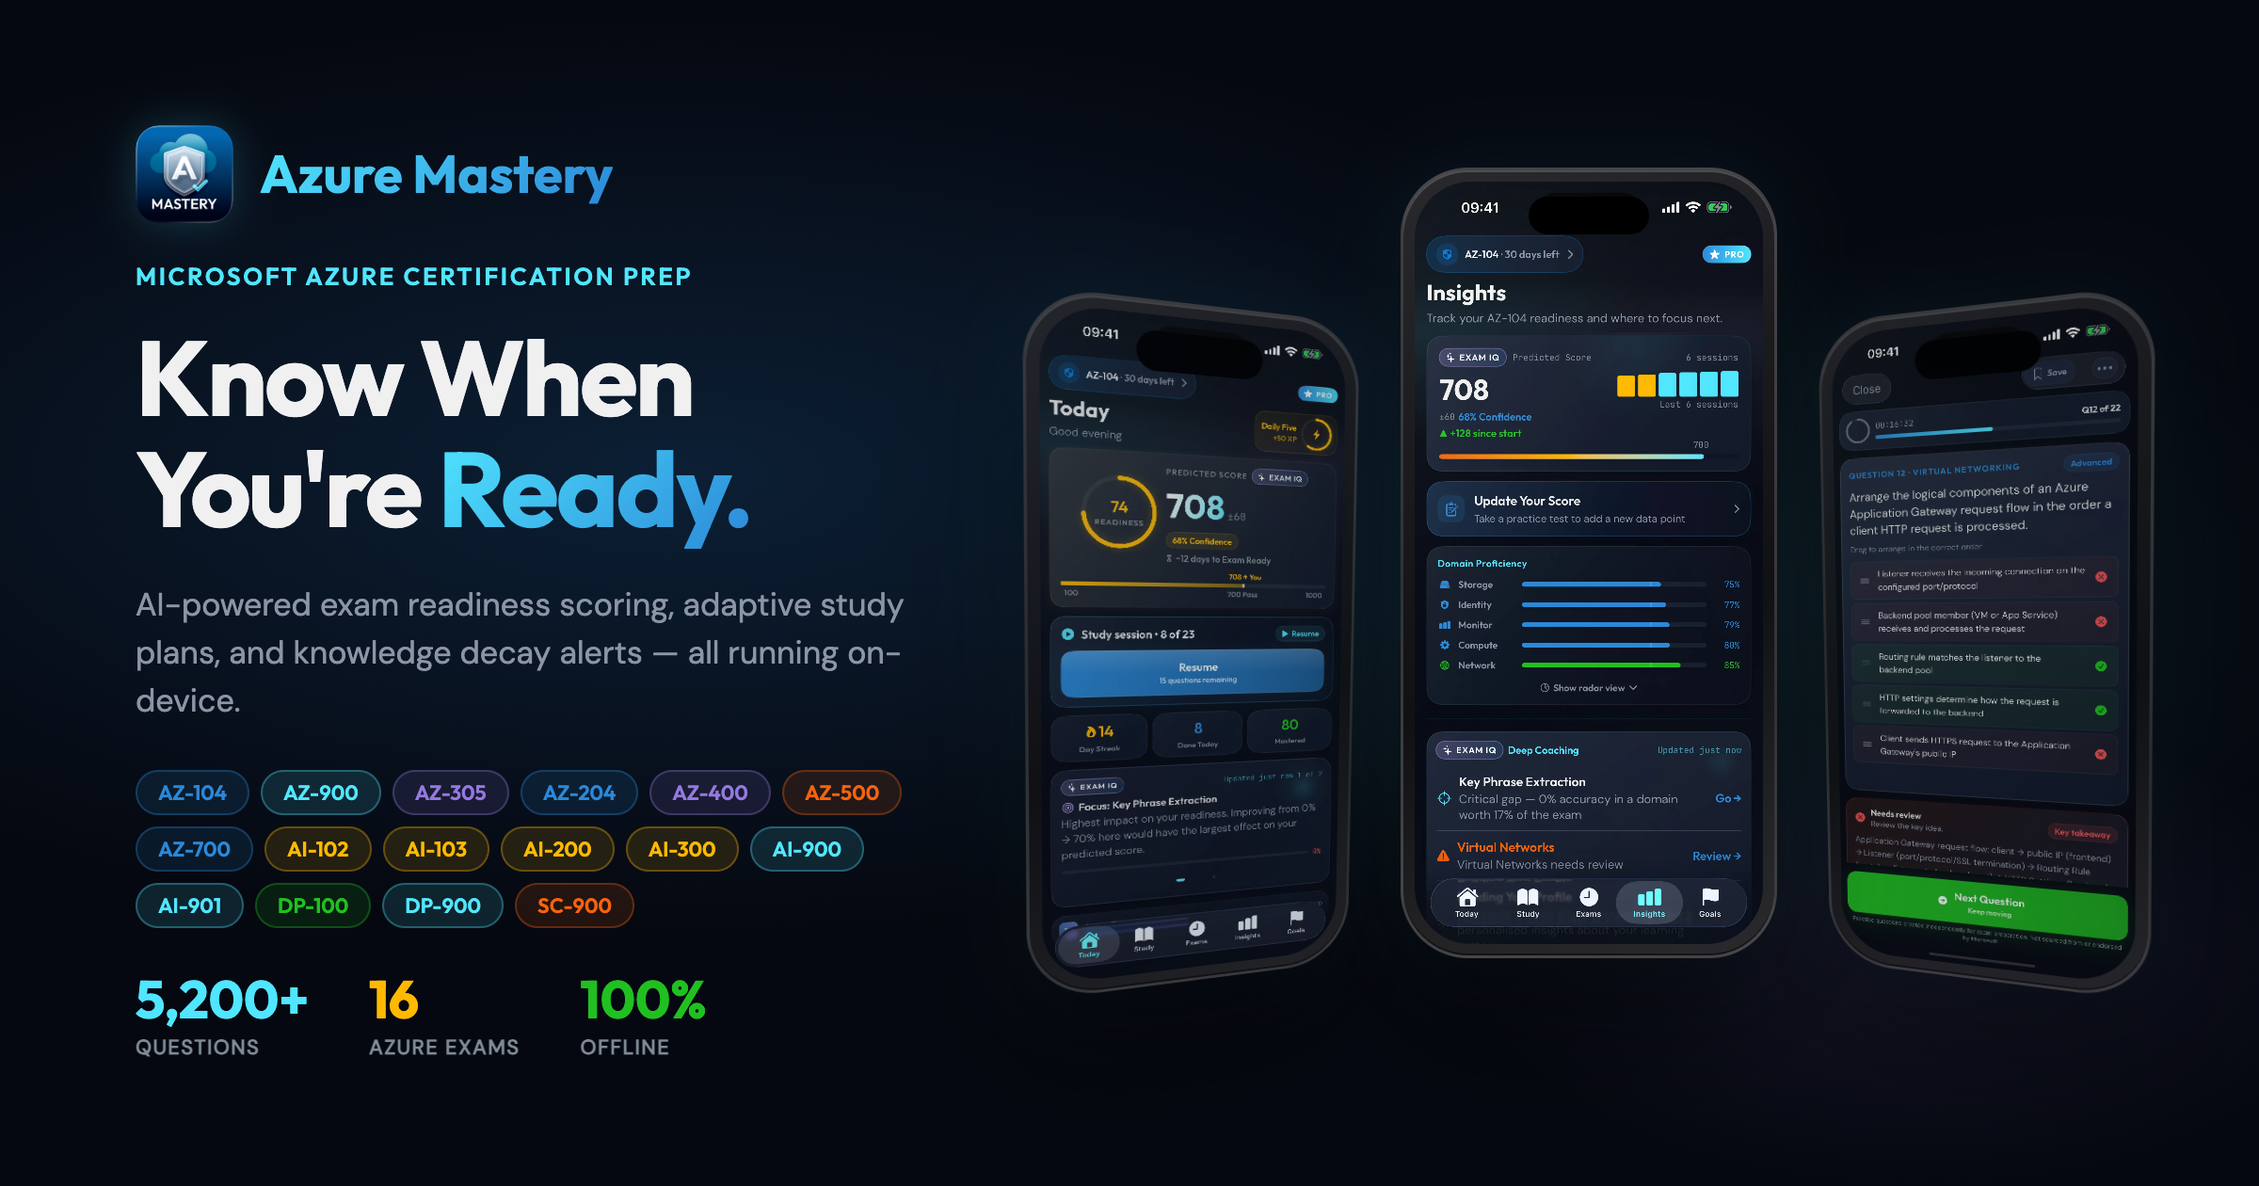
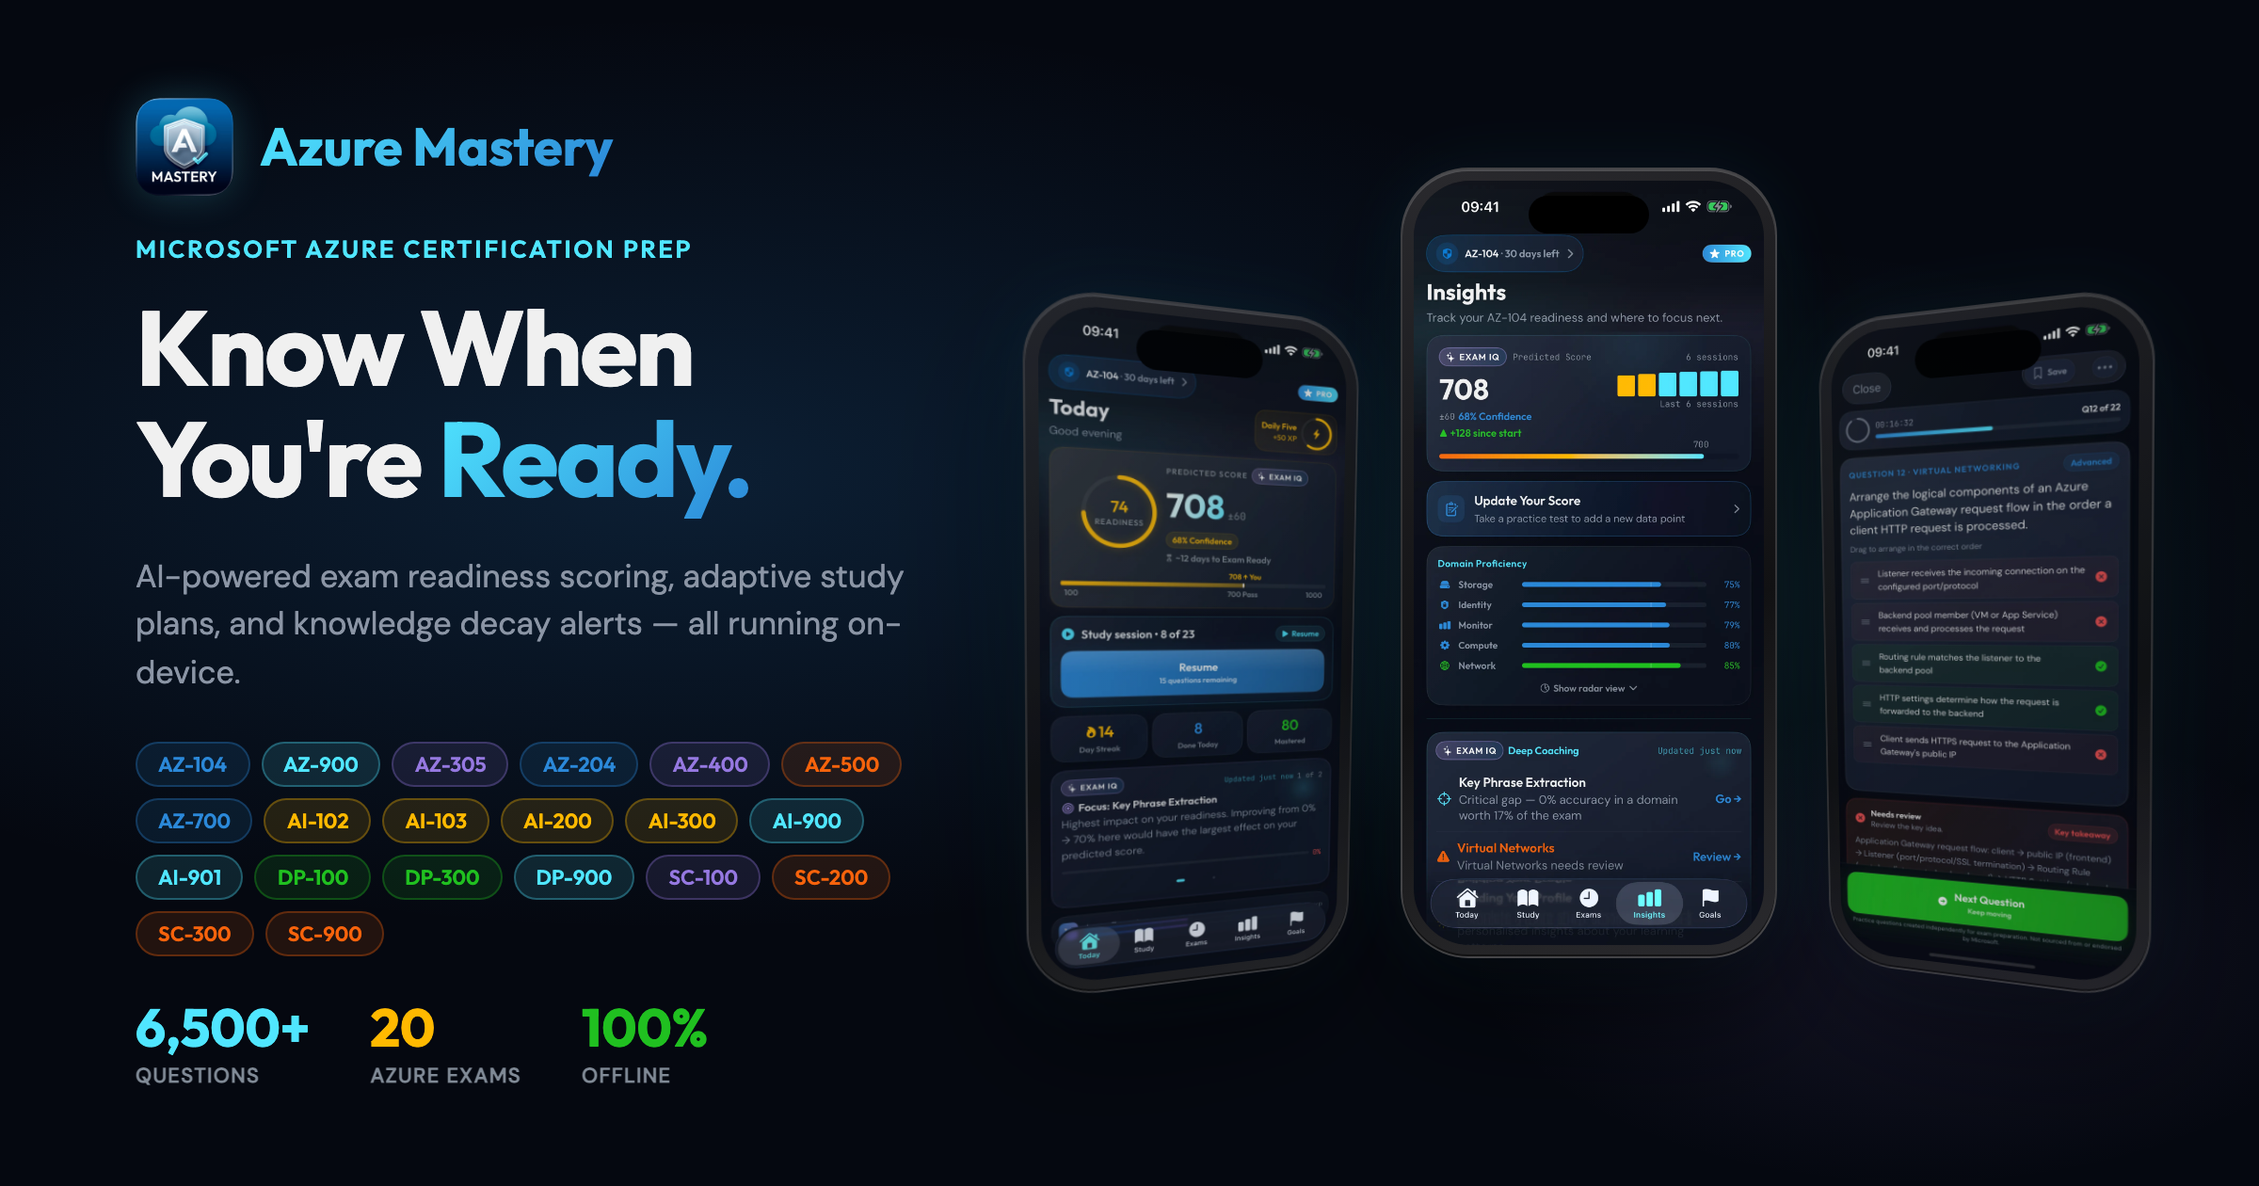
update for v1.4.4
update for v1.4.4

diff --git a/apps/AzureMastery/index.html b/apps/AzureMastery/index.html
@@ -12,9 +12,9 @@
     gtag('config', 'G-YTN7LFS04Y');
   </script>
   <meta name="viewport" content="width=device-width, initial-scale=1.0">
-  <title>Azure Mastery — AI-Powered Azure Certification Exam Prep | 16 Exams, 5,200+ Questions</title>
-  <meta name="description" content="Pass your Azure certification with confidence. Azure Mastery uses on-device AI to predict your exam score and build adaptive study plans. 5,200+ questions across 16 exams: AZ-104, AZ-900, AZ-305, AZ-204, AZ-400, AZ-500, AZ-700, AI-102, AI-103, AI-200, AI-300, AI-900, AI-901, DP-100, DP-900, SC-900.">
-  <meta name="keywords" content="Azure certification, AZ-104 exam prep, AZ-900 study guide, AZ-305 practice questions, AZ-204 exam prep, AZ-400 practice test, AZ-500 study guide, AZ-700 practice questions, AI-102 exam prep, AI-103 exam prep, AI-200 exam prep, AI-300 exam prep, AI-900 study guide, AI-901 study guide, DP-100 practice exam, DP-900 exam prep, SC-900 study guide, Microsoft Azure exam, Azure Administrator, Azure Fundamentals, Azure Solutions Architect, Azure Developer Associate, Azure DevOps Engineer, Azure Security Engineer, Azure Network Engineer, Azure AI Engineer, Azure AI App Agent Developer, Azure AI Cloud Developer, ML Operations Engineer, Azure AI Fundamentals, Azure Data Scientist, Azure Data Fundamentals, Security Compliance Identity Fundamentals, exam preparation app, iOS study app, Exam IQ, AI exam prep, Microsoft certification, Azure practice test, Azure exam simulator, cloud certification prep, Azure study app, knowledge decay, spaced repetition, adaptive learning, offline exam prep">
+  <title>Azure Mastery — AI-Powered Azure Certification Exam Prep | 20 Exams, 6,500+ Questions</title>
+  <meta name="description" content="Pass your Azure certification with confidence. Azure Mastery uses on-device AI to predict your exam score and build adaptive study plans. 6,500+ questions across 20 exams: AZ-104, AZ-900, AZ-305, AZ-204, AZ-400, AZ-500, AZ-700, AI-102, AI-103, AI-200, AI-300, AI-900, AI-901, DP-100, DP-300, DP-900, SC-100, SC-200, SC-300, SC-900.">
+  <meta name="keywords" content="Azure certification, AZ-104 exam prep, AZ-900 study guide, AZ-305 practice questions, AZ-204 exam prep, AZ-400 practice test, AZ-500 study guide, AZ-700 practice questions, AI-102 exam prep, AI-103 exam prep, AI-200 exam prep, AI-300 exam prep, AI-900 study guide, AI-901 study guide, DP-100 practice exam, DP-300 exam prep, DP-900 exam prep, SC-100 practice test, SC-200 practice test, SC-300 exam prep, SC-900 study guide, Microsoft Azure exam, Azure Administrator, Azure Database Administrator, Azure Fundamentals, Azure Solutions Architect, Azure Developer Associate, Azure DevOps Engineer, Azure Security Engineer, Azure Network Engineer, Azure AI Engineer, Azure AI App Agent Developer, Azure AI Cloud Developer, ML Operations Engineer, Azure AI Fundamentals, Azure Data Scientist, Azure Data Fundamentals, Cybersecurity Architect, Security Operations Analyst, Identity Access Administrator, Security Compliance Identity Fundamentals, exam preparation app, iOS study app, Exam IQ, AI exam prep, Microsoft certification, Azure practice test, Azure exam simulator, cloud certification prep, Azure study app, knowledge decay, spaced repetition, adaptive learning, offline exam prep">
   <meta name="robots" content="index, follow, max-image-preview:large, max-snippet:-1">
   <meta name="author" content="Moonbeam Alpha Ltd">
   <meta name="application-name" content="Azure Mastery">
@@ -34,18 +34,18 @@
   <meta property="og:type" content="website">
   <meta property="og:site_name" content="Azure Mastery">
   <meta property="og:title" content="Azure Mastery — Know When You're Ready to Pass">
-  <meta property="og:description" content="AI-powered Azure certification exam prep. 5,200+ questions across 16 exams. ML score prediction, adaptive study plans, knowledge decay alerts. AZ-104, AZ-900, AZ-305, AZ-204, AZ-400, AZ-500, AZ-700, AI-102, AI-103, AI-200, AI-300, AI-900, AI-901, DP-100, DP-900, SC-900. 100% offline.">
+  <meta property="og:description" content="AI-powered Azure certification exam prep. 6,500+ questions across 20 exams. ML score prediction, adaptive study plans, knowledge decay alerts. AZ-104, AZ-900, AZ-305, AZ-204, AZ-400, AZ-500, AZ-700, AI-102, AI-103, AI-200, AI-300, AI-900, AI-901, DP-100, DP-300, DP-900, SC-100, SC-200, SC-300, SC-900. 100% offline.">
   <meta property="og:image" content="https://azuremastery.app/apps/AzureMastery/images/og-image.png">
   <meta property="og:image:width" content="1200">
   <meta property="og:image:height" content="630">
   <meta property="og:image:type" content="image/png">
-  <meta property="og:image:alt" content="Azure Mastery — AI-powered Azure certification exam prep app with 5,200+ questions across 16 Microsoft Azure exams including AZ-104, AZ-900, AZ-305, AZ-204, AZ-400, AZ-500, AZ-700, AI-102, AI-103, AI-200, AI-300, AI-900, AI-901, DP-100, DP-900, and SC-900">
+  <meta property="og:image:alt" content="Azure Mastery — AI-powered Azure certification exam prep app with 6,500+ questions across 20 Microsoft Azure exams including AZ-104, AZ-900, AZ-305, AZ-204, AZ-400, AZ-500, AZ-700, AI-102, AI-103, AI-200, AI-300, AI-900, AI-901, DP-100, DP-300, DP-900, SC-100, SC-200, SC-300, and SC-900">
   <meta property="og:url" content="https://azuremastery.app/apps/AzureMastery/">
 
   <!-- Twitter Card -->
   <meta name="twitter:card" content="summary_large_image">
-  <meta name="twitter:title" content="Azure Mastery — AI-Powered Azure Certification Exam Prep | 16 Exams">
-  <meta name="twitter:description" content="On-device AI predicts your exam score, builds adaptive study plans, and catches knowledge decay before exam day. 5,200+ questions across 16 Azure exams. 100% offline.">
+  <meta name="twitter:title" content="Azure Mastery — AI-Powered Azure Certification Exam Prep | 20 Exams">
+  <meta name="twitter:description" content="On-device AI predicts your exam score, builds adaptive study plans, and catches knowledge decay before exam day. 6,500+ questions across 20 Azure exams. 100% offline.">
   <meta name="twitter:image" content="https://azuremastery.app/apps/AzureMastery/images/og-image.png">
 
   <!-- Structured Data -->
@@ -59,7 +59,7 @@
     "operatingSystem": "iOS",
     "applicationCategory": "EducationApplication",
     "applicationSubCategory": "Exam Preparation",
-    "description": "AI-powered Azure certification exam prep with adaptive study plans, ML score prediction, and real exam simulation. 5,200+ questions across 16 exams: AZ-104, AZ-900, AZ-305, AZ-204, AZ-400, AZ-500, AZ-700, AI-102, AI-103, AI-200, AI-300, AI-900, AI-901, DP-100, DP-900, SC-900.",
+    "description": "AI-powered Azure certification exam prep with adaptive study plans, ML score prediction, and real exam simulation. 6,500+ questions across 20 exams: AZ-104, AZ-900, AZ-305, AZ-204, AZ-400, AZ-500, AZ-700, AI-102, AI-103, AI-200, AI-300, AI-900, AI-901, DP-100, DP-300, DP-900, SC-100, SC-200, SC-300, SC-900.",
     "image": "https://azuremastery.app/apps/AzureMastery/images/azure-mastery.png",
     "screenshot": [
       "https://azuremastery.app/apps/AzureMastery/images/cap-exam-iq.webp",
@@ -77,14 +77,14 @@
       "name": "Moonbeam Alpha Ltd",
       "url": "https://azuremastery.app"
     },
-    "keywords": "Azure certification, AZ-104, AZ-900, AZ-305, AZ-204, AZ-400, AZ-500, AZ-700, AI-102, AI-103, AI-200, AI-300, AI-900, AI-901, DP-100, DP-900, SC-900, Microsoft Azure, exam prep, practice questions, Azure Administrator, Azure Fundamentals, Azure Solutions Architect, Azure Developer, Azure DevOps Engineer, Azure Security Engineer, Azure Network Engineer, Azure AI Engineer, Azure AI App Agent Developer, Azure AI Cloud Developer, ML Operations Engineer, Azure Data Scientist, Azure Data Fundamentals, Azure AI Fundamentals, Security Compliance Identity Fundamentals",
+    "keywords": "Azure certification, AZ-104, AZ-900, AZ-305, AZ-204, AZ-400, AZ-500, AZ-700, AI-102, AI-103, AI-200, AI-300, AI-900, AI-901, DP-100, DP-300, DP-900, SC-100, SC-200, SC-300, SC-900, Microsoft Azure, exam prep, practice questions, Azure Administrator, Azure Database Administrator, Azure Fundamentals, Azure Solutions Architect, Azure Developer, Azure DevOps Engineer, Azure Security Engineer, Azure Network Engineer, Azure AI Engineer, Azure AI App Agent Developer, Azure AI Cloud Developer, ML Operations Engineer, Azure Data Scientist, Azure Data Fundamentals, Azure AI Fundamentals, Cybersecurity Architect, Security Operations Analyst, Identity Access Administrator, Security Compliance Identity Fundamentals",
     "featureList": [
-      "5,200+ practice questions across 16 Azure exams",
+      "6,500+ practice questions across 20 Azure exams",
       "AI-powered Exam IQ score prediction",
       "Adaptive study plans",
       "Knowledge decay tracking",
       "Real exam simulation mode",
-      "15 certification paths",
+      "17 certification paths",
       "100% offline — no tracking"
     ],
     "aggregateRating": {
@@ -1351,7 +1351,11 @@
           <span class="hero-exam-tag hero-exam-tag--cyan">AI-900</span>
           <span class="hero-exam-tag hero-exam-tag--cyan">AI-901</span>
           <span class="hero-exam-tag hero-exam-tag--green">DP-100</span>
+          <span class="hero-exam-tag hero-exam-tag--green">DP-300</span>
           <span class="hero-exam-tag hero-exam-tag--cyan">DP-900</span>
+          <span class="hero-exam-tag hero-exam-tag--purple">SC-100</span>
+          <span class="hero-exam-tag hero-exam-tag--orange">SC-200</span>
+          <span class="hero-exam-tag hero-exam-tag--orange">SC-300</span>
           <span class="hero-exam-tag hero-exam-tag--orange">SC-900</span>
         </div>
         <div class="hero-ctas">
@@ -1392,12 +1396,12 @@
   <section class="section-metrics" aria-label="App statistics">
     <div class="metrics-inner">
       <div class="metric-item fade-up">
-        <span class="metric-number display-medium" style="color:var(--azure-cyan);">5200+</span>
+        <span class="metric-number display-medium" style="color:var(--azure-cyan);">6500+</span>
         <span class="metric-label">Questions</span>
       </div>
       <div class="metric-divider" aria-hidden="true"></div>
       <div class="metric-item fade-up">
-        <span class="metric-number display-medium" style="color:var(--xp-gold);">16</span>
+        <span class="metric-number display-medium" style="color:var(--xp-gold);">20</span>
         <span class="metric-label">Azure Exams</span>
       </div>
       <div class="metric-divider" aria-hidden="true"></div>
@@ -1455,9 +1459,9 @@
           <div class="feature-icon feature-icon--blue">
             <svg width="20" height="20" viewBox="0 0 24 24" fill="none" stroke="currentColor" stroke-width="2"><rect x="2" y="3" width="20" height="18" rx="3"/><path d="M8 7h8M8 12h8M8 17h4"/></svg>
           </div>
-          <h3 class="heading-medium" style="margin:16px 0 8px;">16 Azure Exams</h3>
+          <h3 class="heading-medium" style="margin:16px 0 8px;">20 Azure Exams</h3>
           <p class="body-medium" style="color:var(--text-secondary);">
-            From Fundamentals to Expert — AZ-104, AZ-900, AZ-305, AZ-204, AZ-400, AZ-500, AZ-700, AI-102, AI-103, AI-200, AI-300, AI-900, AI-901, DP-100, DP-900, and SC-900.
+            From Fundamentals to Expert — AZ-104, AZ-900, AZ-305, AZ-204, AZ-400, AZ-500, AZ-700, AI-102, AI-103, AI-200, AI-300, AI-900, AI-901, DP-100, DP-300, DP-900, SC-100, SC-200, SC-300, and SC-900.
           </p>
         </article>
 
@@ -1465,7 +1469,7 @@
           <div class="feature-icon feature-icon--gold">
             <svg width="20" height="20" viewBox="0 0 24 24" fill="none" stroke="currentColor" stroke-width="2"><circle cx="12" cy="12" r="10"/><path d="M9.09 9a3 3 0 015.83 1c0 2-3 3-3 3M12 17h.01"/></svg>
           </div>
-          <h3 class="heading-medium" style="margin:16px 0 8px;">5,200+ Questions</h3>
+          <h3 class="heading-medium" style="margin:16px 0 8px;">6,500+ Questions</h3>
           <p class="body-medium" style="color:var(--text-secondary);">
             Curated question bank with 9 question types, case studies, and detailed explanations for every answer.
           </p>
@@ -1556,7 +1560,7 @@
             <svg width="24" height="24" viewBox="0 0 24 24" fill="none" stroke="currentColor" stroke-width="2"><circle cx="12" cy="12" r="10"/><path d="M9 12l2 2 4-4"/></svg>
           </div>
           <h3>Answer questions</h3>
-          <p>Study from 5,200+ questions across 16 Azure certification exams. Each response feeds the ML model.</p>
+          <p>Study from 6,500+ questions across 20 Azure certification exams. Each response feeds the ML model.</p>
         </div>
         <div class="how-step fade-up" style="--delay:0.1s">
           <div class="how-step-number">02</div>
@@ -1679,16 +1683,16 @@
         <p class="label-eyebrow">Certification Paths</p>
         <h2 class="display-small" style="margin:12px 0 20px;">
           One app.<br>
-          <span class="headline-accent">Sixteen certifications.</span>
+          <span class="headline-accent">Twenty certifications.</span>
         </h2>
         <p class="body-large" style="color:var(--text-secondary);margin-bottom:32px;">
-          Track your path across 15 certification routes — from Azure Fundamentals to
-          Solutions Architect Expert and beyond. Set target exam dates, earn badges, and
+          Track your path across 17 certification routes — from Azure Fundamentals to
+          Cybersecurity Architect Expert and beyond. Set target exam dates, earn badges, and
           monitor readiness across every cert.
         </p>
         <ul class="showcase-bullets">
-          <li>16 exams spanning Fundamentals, Associate, and Expert levels</li>
-          <li>15 guided certification paths with recommended exam sequences</li>
+          <li>20 exams spanning Fundamentals, Associate, and Expert levels</li>
+          <li>17 guided certification paths with recommended exam sequences</li>
           <li>Readiness gauge, XP tracking, achievement badges, and exam date countdown</li>
         </ul>
       </div>
@@ -1881,7 +1885,11 @@
         <span class="exam-tag">AI-900 AI Fundamentals</span>
         <span class="exam-tag">AI-901 AI Fundamentals</span>
         <span class="exam-tag">DP-100 Data Scientist</span>
+        <span class="exam-tag">DP-300 Database Administrator</span>
         <span class="exam-tag">DP-900 Data Fundamentals</span>
+        <span class="exam-tag">SC-100 Cybersecurity Architect</span>
+        <span class="exam-tag">SC-200 Security Operations Analyst</span>
+        <span class="exam-tag">SC-300 Identity &amp; Access Administrator</span>
         <span class="exam-tag">SC-900 Security Fundamentals</span>
       </div>
     </div>

diff --git a/apps/AzureMastery/linkedin-banner.html b/apps/AzureMastery/linkedin-banner.html
@@ -371,7 +371,11 @@
           <span class="exam-tag exam-tag--cyan">AI-900</span>
           <span class="exam-tag exam-tag--cyan">AI-901</span>
           <span class="exam-tag exam-tag--green">DP-100</span>
+          <span class="exam-tag exam-tag--green">DP-300</span>
           <span class="exam-tag exam-tag--cyan">DP-900</span>
+          <span class="exam-tag exam-tag--purple">SC-100</span>
+          <span class="exam-tag exam-tag--orange">SC-200</span>
+          <span class="exam-tag exam-tag--orange">SC-300</span>
           <span class="exam-tag exam-tag--orange">SC-900</span>
         </div>
       </div>
@@ -382,11 +386,11 @@
       <!-- Right: Stats -->
       <div class="stats-group">
         <div class="stat">
-          <div class="stat-number stat-number--cyan">5,200+</div>
+          <div class="stat-number stat-number--cyan">6,500+</div>
           <div class="stat-label">Practice Questions</div>
         </div>
         <div class="stat">
-          <div class="stat-number stat-number--purple">16</div>
+          <div class="stat-number stat-number--purple">20</div>
           <div class="stat-label">Azure Exams</div>
         </div>
         <div class="stat">

diff --git a/apps/AzureMastery/linkedin-article.html b/apps/AzureMastery/linkedin-article.html
@@ -284,17 +284,21 @@
         <span class="tag tag--cyan">AI-900</span>
         <span class="tag tag--cyan">AI-901</span>
         <span class="tag tag--green">DP-100</span>
+        <span class="tag tag--green">DP-300</span>
         <span class="tag tag--cyan">DP-900</span>
+        <span class="tag tag--purple">SC-100</span>
+        <span class="tag tag--orange">SC-200</span>
+        <span class="tag tag--orange">SC-300</span>
         <span class="tag tag--orange">SC-900</span>
       </div>
 
       <div class="stats">
         <div>
-          <div class="stat-value stat-value--cyan">5,200+</div>
+          <div class="stat-value stat-value--cyan">6,500+</div>
           <div class="stat-label">Questions</div>
         </div>
         <div>
-          <div class="stat-value stat-value--purple">16</div>
+          <div class="stat-value stat-value--purple">20</div>
           <div class="stat-label">Azure Exams</div>
         </div>
         <div>

diff --git a/apps/AzureMastery/og-image.html b/apps/AzureMastery/og-image.html
@@ -251,17 +251,21 @@
         <span class="tag tag--cyan">AI-900</span>
         <span class="tag tag--cyan">AI-901</span>
         <span class="tag tag--green">DP-100</span>
+        <span class="tag tag--green">DP-300</span>
         <span class="tag tag--cyan">DP-900</span>
+        <span class="tag tag--purple">SC-100</span>
+        <span class="tag tag--orange">SC-200</span>
+        <span class="tag tag--orange">SC-300</span>
         <span class="tag tag--orange">SC-900</span>
       </div>
 
       <div class="stats">
         <div>
-          <div class="stat-value stat-value--cyan">5,200+</div>
+          <div class="stat-value stat-value--cyan">6,500+</div>
           <div class="stat-label">Questions</div>
         </div>
         <div>
-          <div class="stat-value stat-value--gold">16</div>
+          <div class="stat-value stat-value--gold">20</div>
           <div class="stat-label">Azure Exams</div>
         </div>
         <div>
